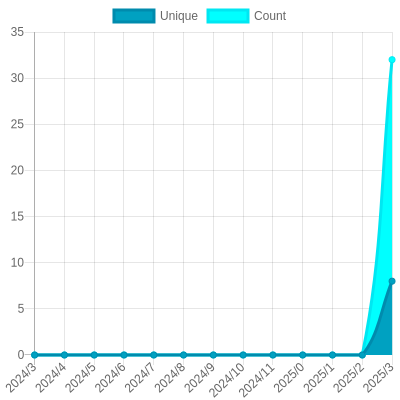
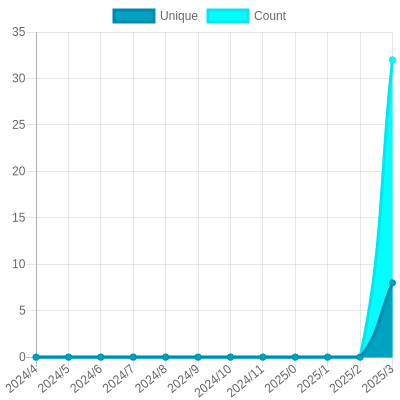
Update views

diff --git a/README.md b/README.md
@@ -26,18 +26,18 @@ The project created and maintained by [gayanvoice](https://github.com/gayanvoice
 			</a>
 		</td>
 		<td>
-			2024/4/28 12:00 AM UTC
+			2024/4/29 12:00 AM UTC
 		</td>
 		<td>
-			10
+			11
 		</td>
 		<td>
-			<img alt="Response time graph" src="https://github.com/bigman-young/ehcache/raw/master/graph/785021728/small/year.png" height="20"> 228
+			<img alt="Response time graph" src="https://github.com/bigman-young/ehcache/raw/master/graph/785021728/small/year.png" height="20"> 230
 		</td>
 	</tr>
 </table>
 
-<small><i>Last updated on 2024/4/30 11:50 PM UTC</i></small>
+<small><i>Last updated on 2024/5/1 12:37 AM UTC</i></small>
 
 ## ✂Copy and 📋 Paste
 ### Total Views Badge

diff --git a/readme/785021728/year.md b/readme/785021728/year.md
@@ -150,21 +150,10 @@
 			<code>0</code>
 		</td>
 	</tr>
-	<tr>
-		<td>
-			<code>2023/4/1</code>
-		</td>
-		<td>
-			<code>0</code>
-		</td>
-		<td>
-			<code>0</code>
-		</td>
-	</tr>
 </table>
 
 </details>
-<small><i>Last updated on 2024/4/30 11:49 PM UTC</i></small>
+<small><i>Last updated on 2024/5/1 12:37 AM UTC</i></small>
 
 ## ✂Copy and 📋 Paste
 ### SVG Badge
